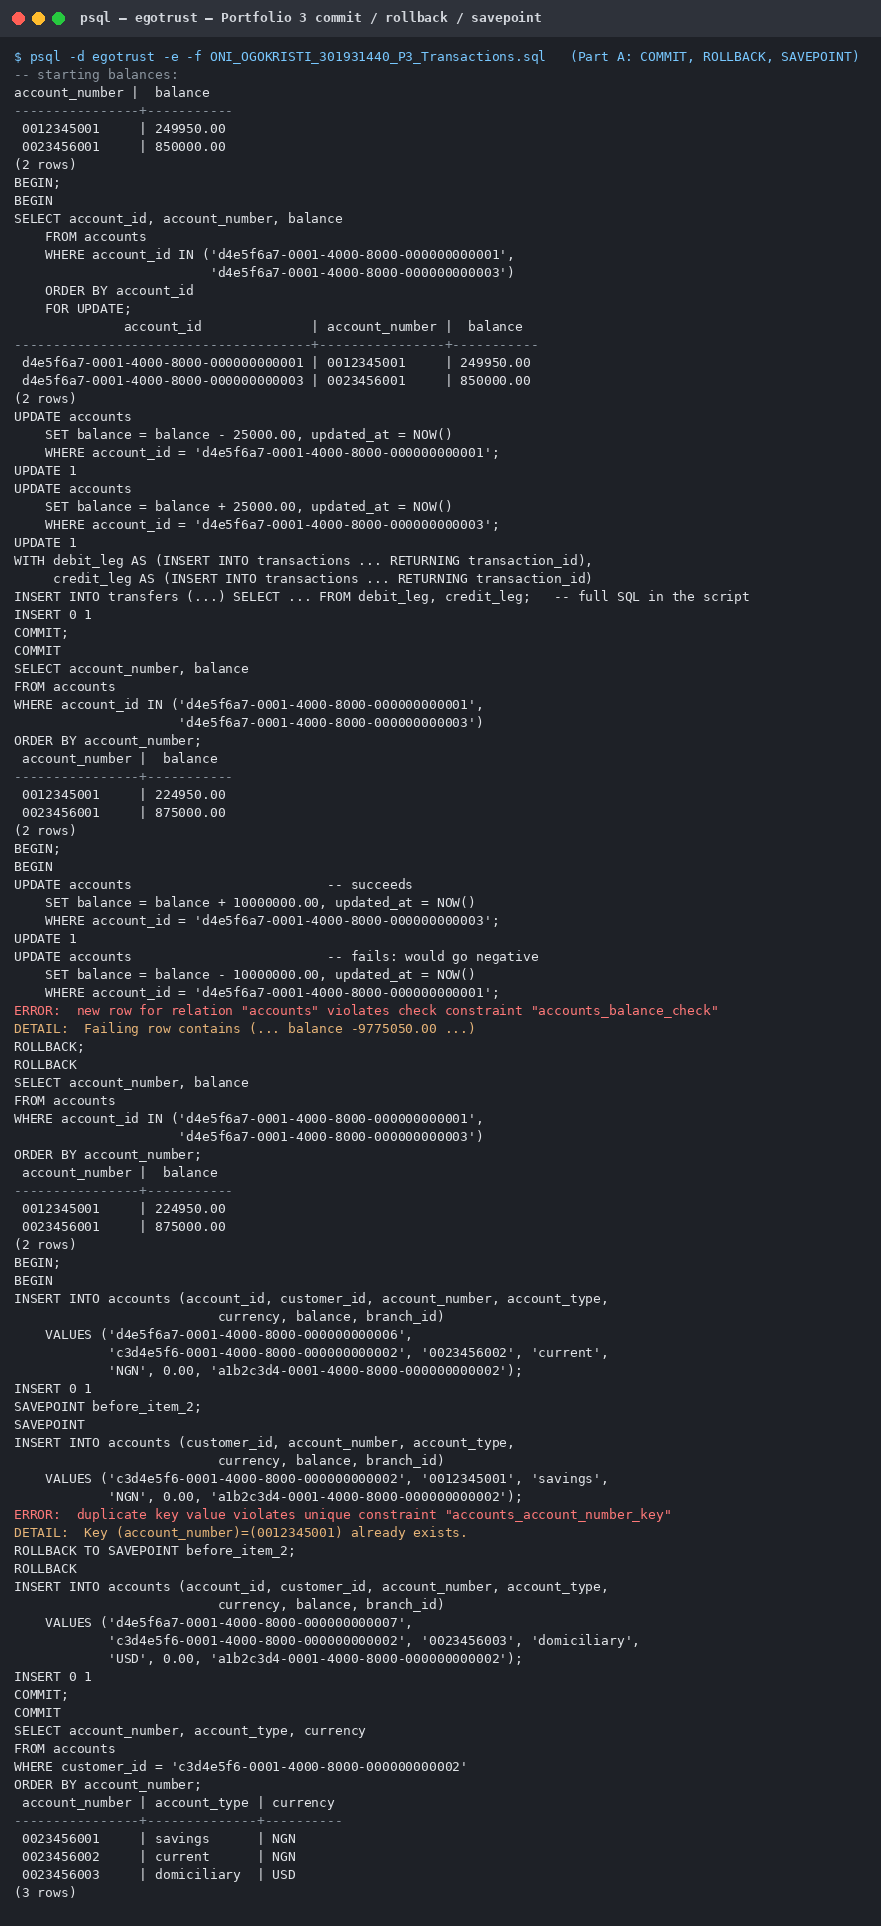
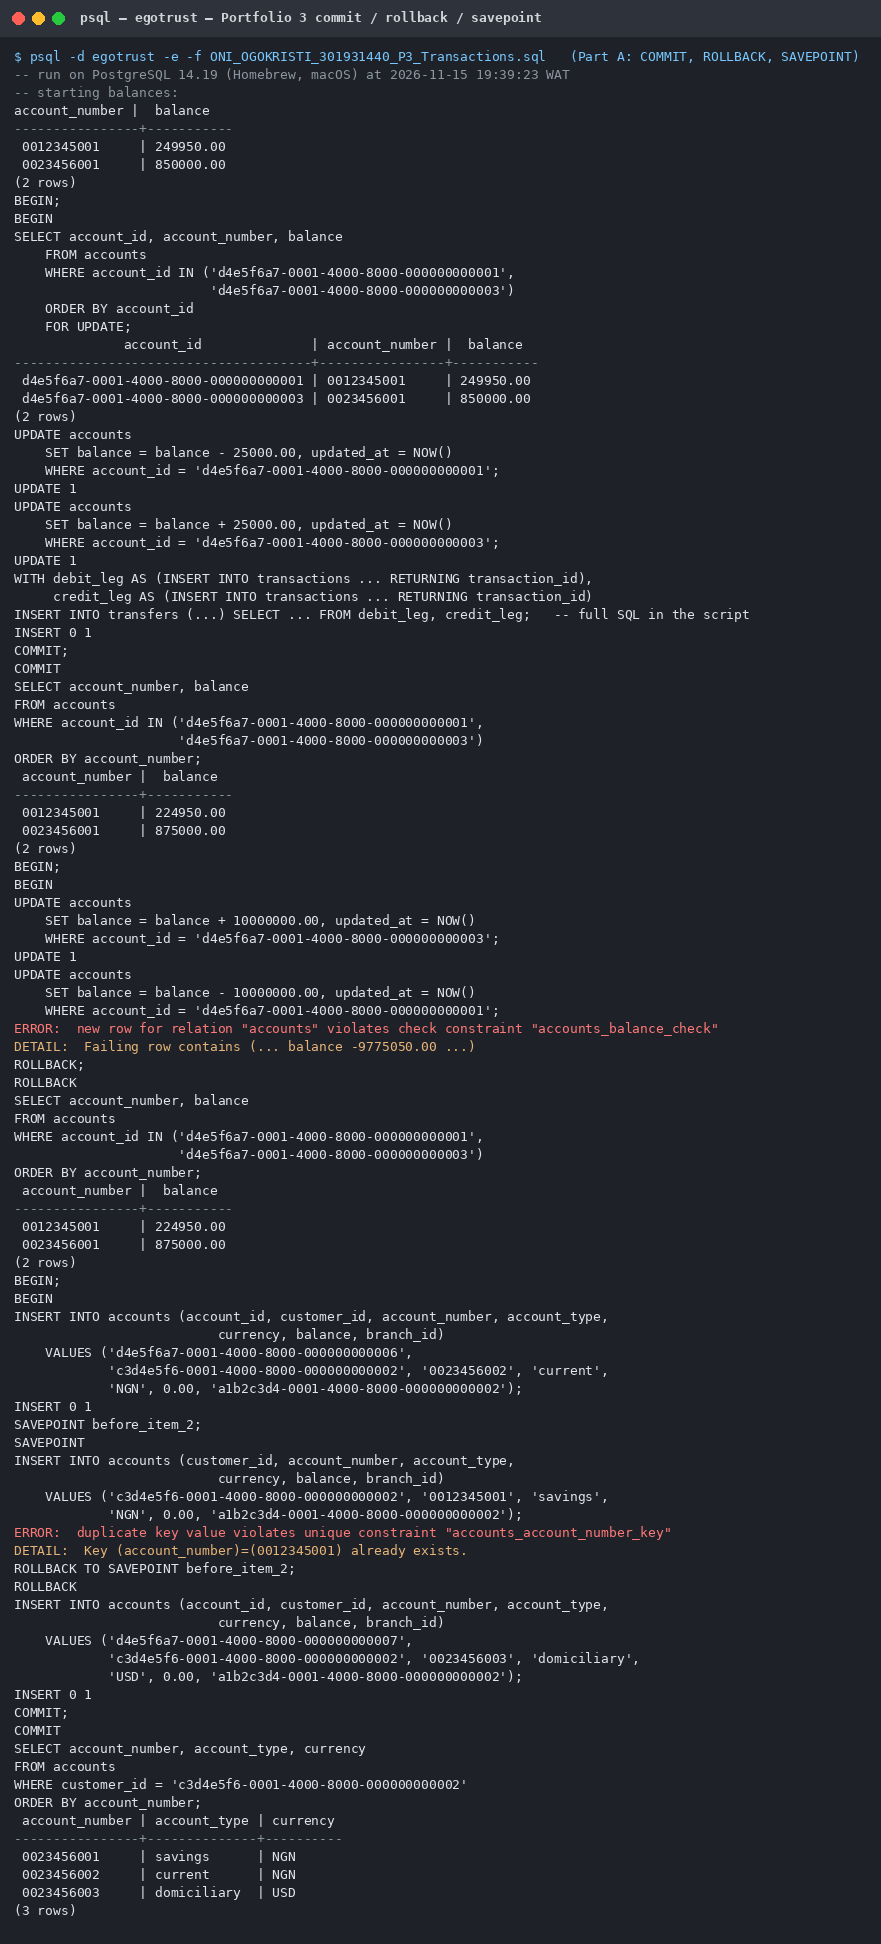
Portfolio 3: two-session concurrency and transaction output from my own run

diff --git a/portfolio-3-transactions-concurrency/ONI_OGOKRISTI_301931440_P3_README.md b/portfolio-3-transactions-concurrency/ONI_OGOKRISTI_301931440_P3_README.md
@@ -18,9 +18,9 @@ This portfolio demonstrates transaction management, isolation levels, and concur
 |------|-------------|
 | [`ONI_OGOKRISTI_301931440_P3_Transactions.sql`](ONI_OGOKRISTI_301931440_P3_Transactions.sql) | Single-session script: COMMIT, ROLLBACK, SAVEPOINT, isolation levels, locking patterns |
 | [`ONI_OGOKRISTI_301931440_P3_SessionA.sql`](ONI_OGOKRISTI_301931440_P3_SessionA.sql) / [`ONI_OGOKRISTI_301931440_P3_SessionB.sql`](ONI_OGOKRISTI_301931440_P3_SessionB.sql) | Two-session scripts with numbered steps: lost update, `FOR UPDATE`, REPEATABLE READ conflict, deadlock |
-| [Commit/rollback evidence](screenshots/ONI_OGOKRISTI_301931440_P3_CommitRollback.png) · [Concurrency evidence](screenshots/ONI_OGOKRISTI_301931440_P3_ConcurrencyResult.png) | Output captured from running the scripts on PostgreSQL 16 |
+| [Commit/rollback evidence](screenshots/ONI_OGOKRISTI_301931440_P3_CommitRollback.png) · [Concurrency evidence](screenshots/ONI_OGOKRISTI_301931440_P3_ConcurrencyResult.png) | Output captured from running the scripts on PostgreSQL 14.19 (my Mac) |
 
-## Two-Session Results (run concurrently)
+## Two-Session Results (run concurrently on PostgreSQL 14.19)
 
 Both sessions work on account 0012345002, which starts at NGN 1,500,000. Session A withdraws 10,000 and Session B withdraws 20,000, so the correct final balance is **1,470,000**. Each session reads the balance into a psql variable (`\gset`), then writes "what I read minus my amount". This is the read-calculate-write pattern an application performs.
 
@@ -31,7 +31,9 @@ Both sessions work on account 0012345002, which starts at NGN 1,500,000. Session
 | 3. REPEATABLE READ | A read the same balance twice, even though B committed a change in between (snapshot). A's update then failed: `could not serialize access due to concurrent update` | unchanged ✓ |
 | 4. Deadlock | A locked 0012345002 then wanted 0023456001; B did the reverse. PostgreSQL reported `deadlock detected` and aborted B, and A then completed | no partial change ✓ |
 
-The last step restores the account to 1,500,000, so the ledger still reconciles.
+The last step restores the account to 1,500,000, so the ledger still reconciles (a final reconciliation query found 0 mismatches).
+
+Raw output: [Session A](ONI_OGOKRISTI_301931440_P3_SessionA_Output.txt) · [Session B](ONI_OGOKRISTI_301931440_P3_SessionB_Output.txt) · [Transactions script](ONI_OGOKRISTI_301931440_P3_Transactions_Output.txt)
 
 ![Concurrency evidence](screenshots/ONI_OGOKRISTI_301931440_P3_ConcurrencyResult.png)
 
